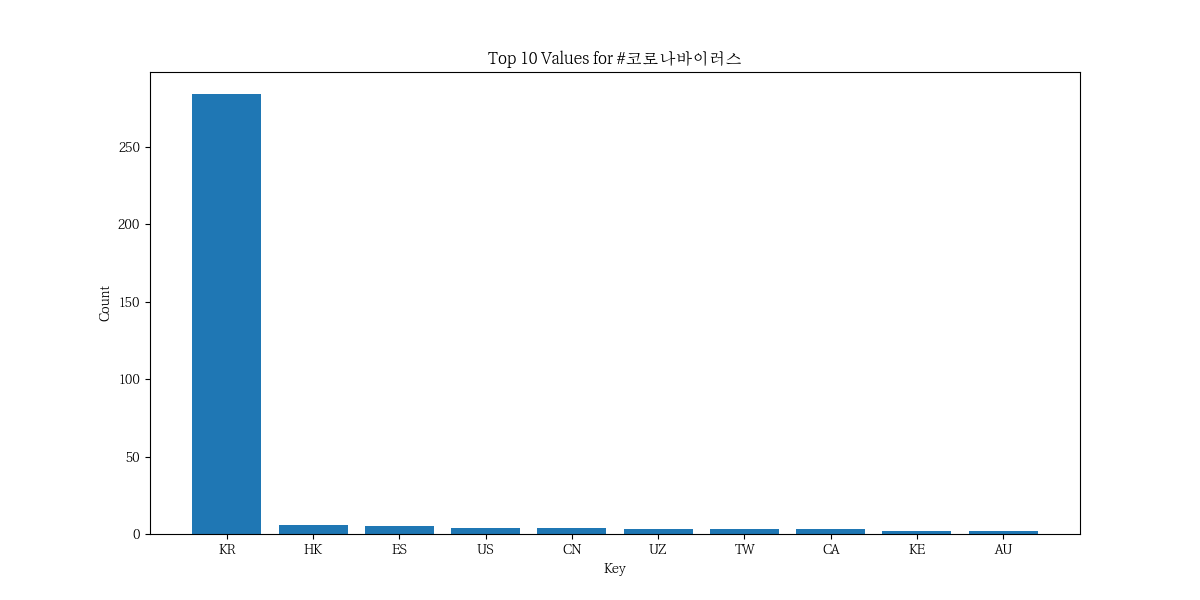
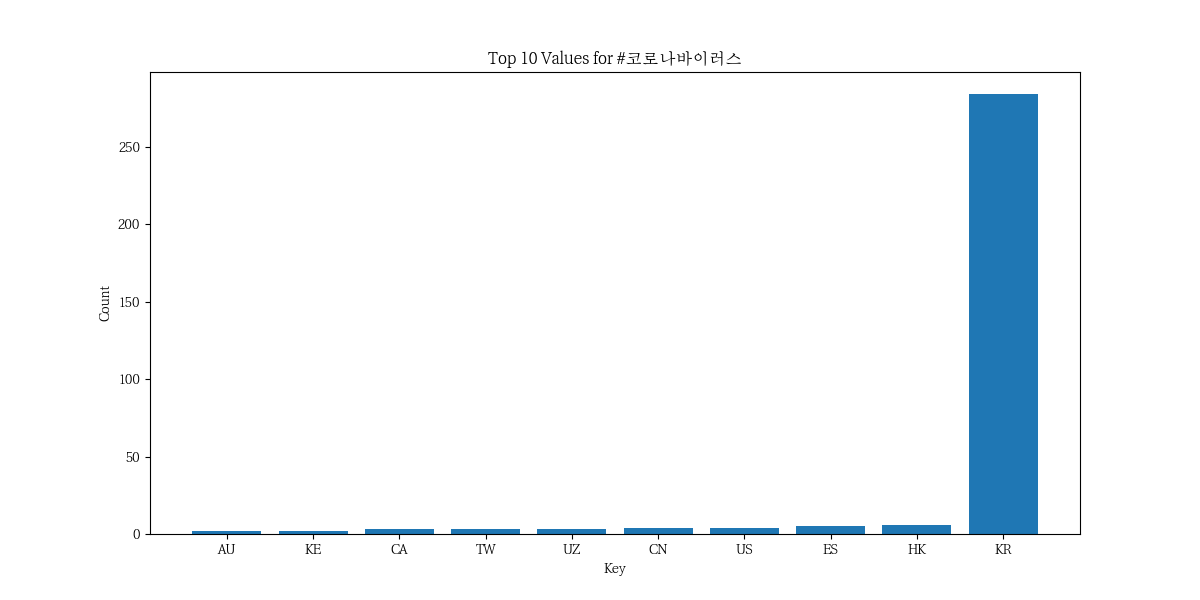
low to high

diff --git a/src/visualize.py b/src/visualize.py
@@ -29,7 +29,7 @@ if args.percent:
 
 # print the count values
 items = sorted(counts[args.key].items(), key=lambda item: (item[1],item[0]), reverse=True)
-top_10 = items[:10]
+top_10 = items[:10][::-1]  # low to high
 # plotting
 plot_keys, plot_vals = [], []
 for k, v in top_10:
